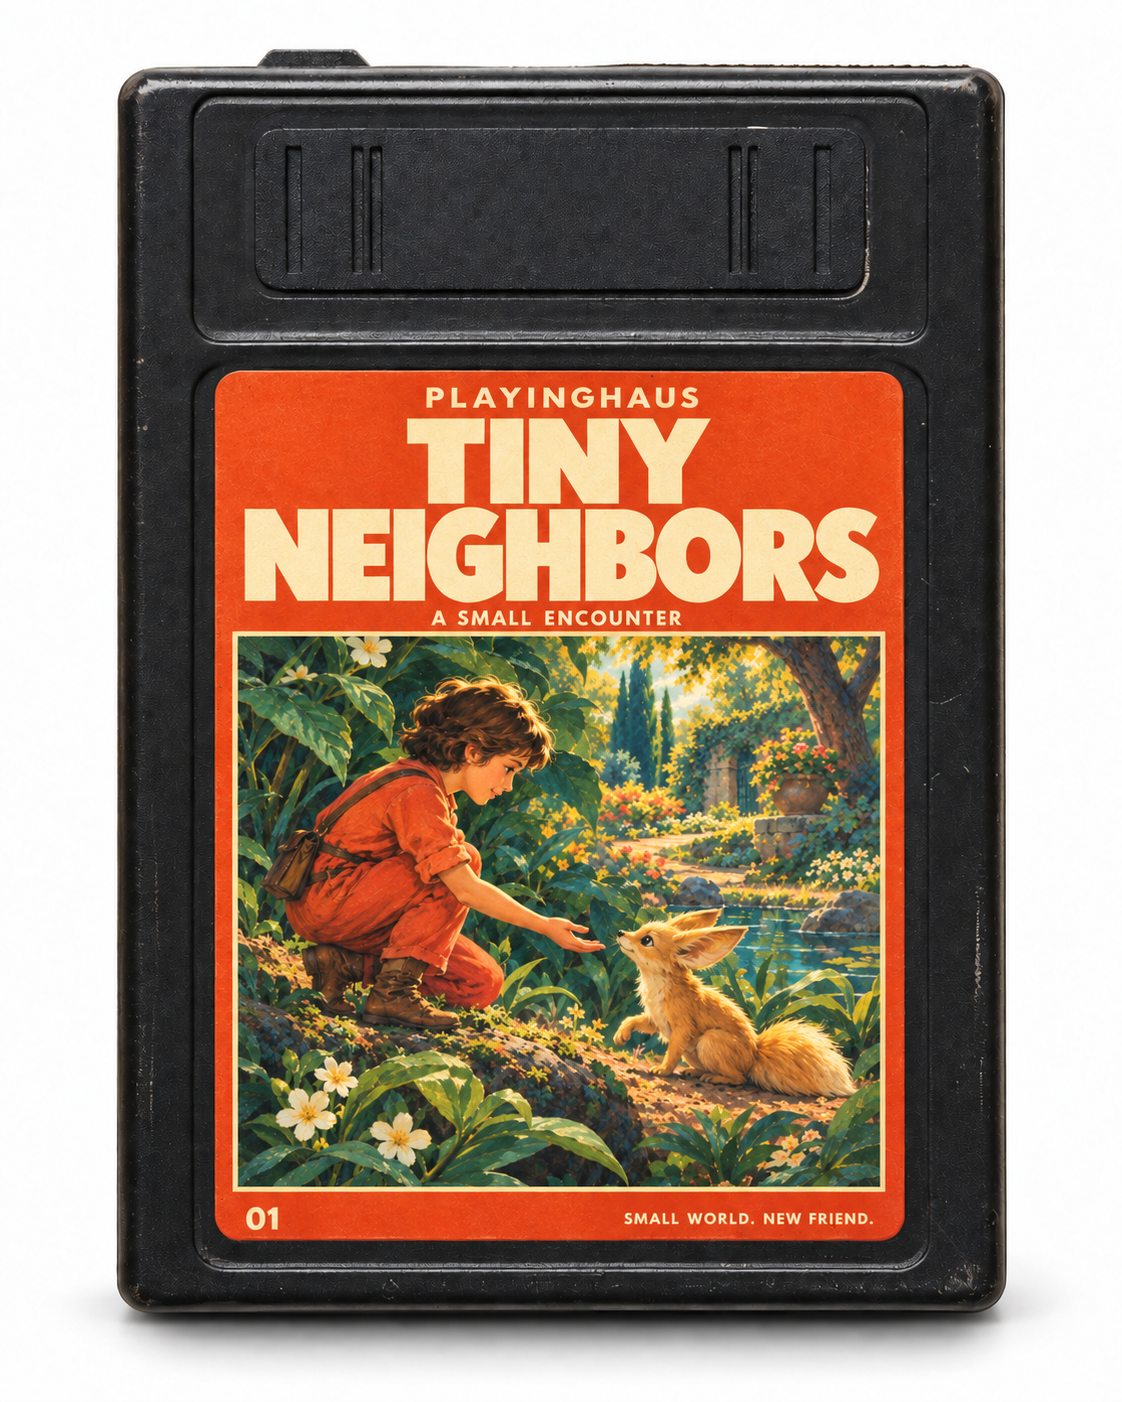
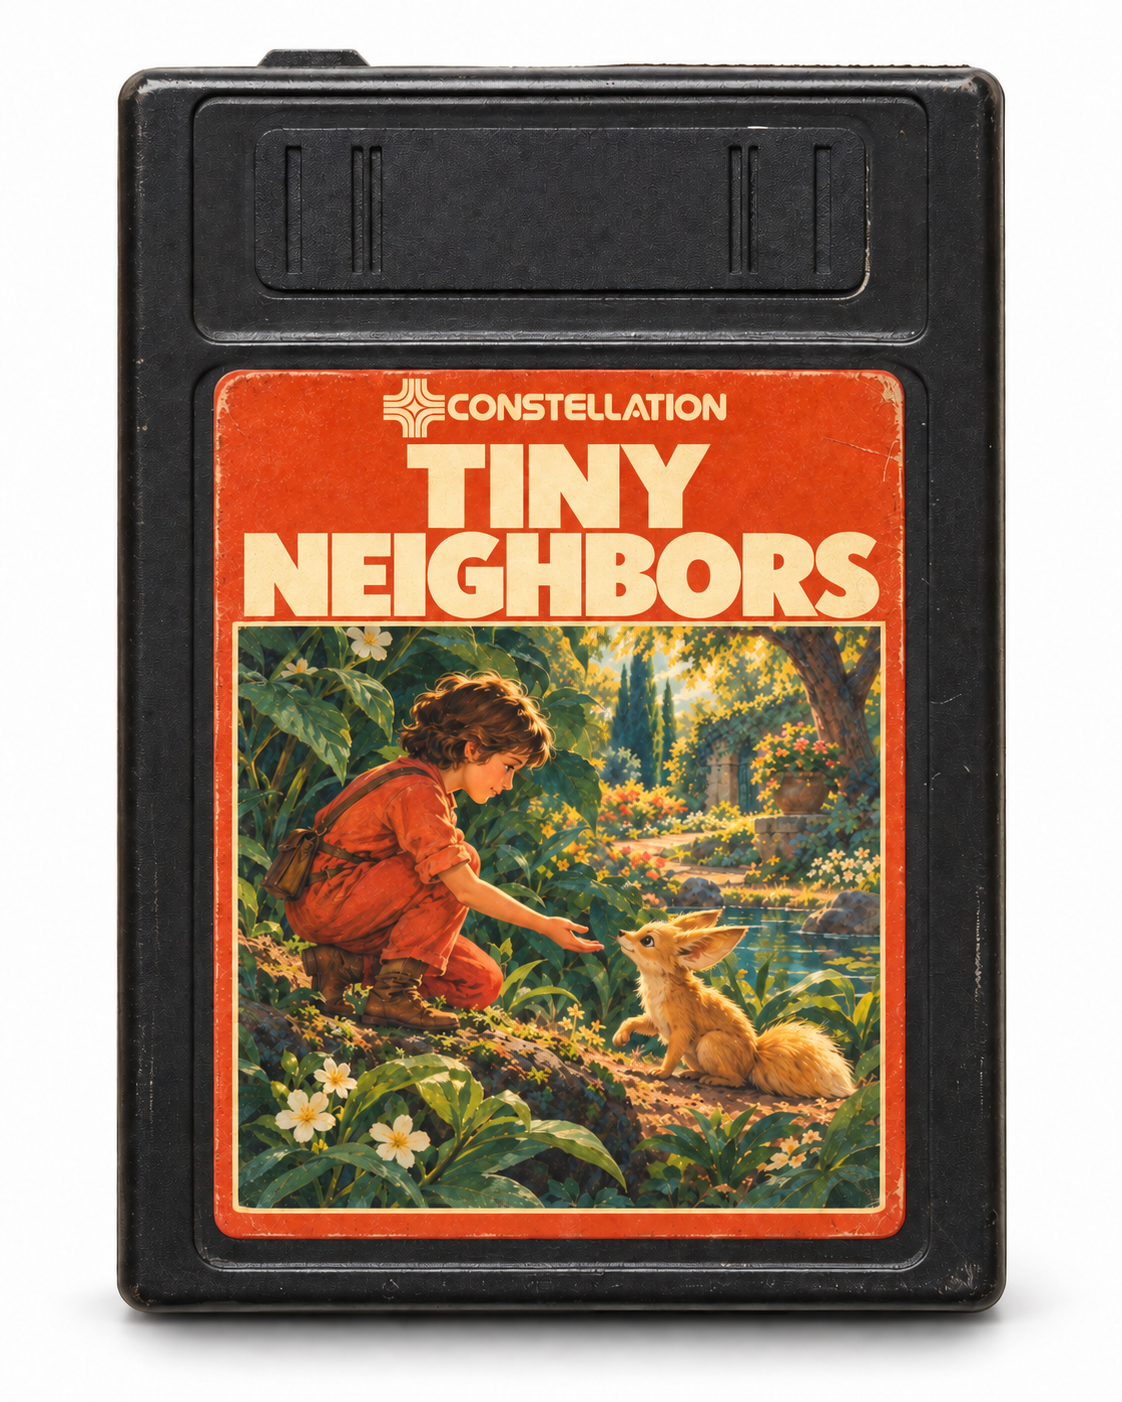
Center playable cartridge and use cream Constellation label branding

Changed region(s): [[0.1872, 0.2454, 0.8111, 0.8894]]

diff --git a/web/home.css b/web/home.css
@@ -16,14 +16,10 @@ a:focus-visible { outline: 3px solid #315fa8; outline-offset: 7px; }
 .masthead { display: flex; justify-content: center; margin-bottom: 34px; }
 .brand { display: block; width: min(350px, 100%); }
 .brand img { display: block; width: 100%; height: auto; }
-.featured { display: grid; grid-template-columns: minmax(0, 440px) minmax(0, 340px); gap: clamp(40px, 7vw, 110px); align-items: center; justify-content: center; }
-.cartridge-link { display: block; width: 100%; border-radius: 4px; }
+.game { display: flex; justify-content: center; }
+.sr-only { position: absolute; width: 1px; height: 1px; padding: 0; margin: -1px; overflow: hidden; clip-path: inset(50%); white-space: nowrap; border: 0; }
+.cartridge-link { display: block; width: min(440px, 100%); border-radius: 4px; }
 .cartridge { display: block; width: 100%; height: auto; transform: scale(1); transition: transform 220ms ease; }
-.game-copy { min-width: 0; }
-h1 { font-size: clamp(26px, 3vw, 36px); font-weight: 600; line-height: 1.15; letter-spacing: -1px; margin: 0 0 20px; }
-.game-copy p { color: #626262; margin: 0 0 28px; max-width: 32ch; }
-.start { display: inline-flex; align-items: center; justify-content: center; gap: 28px; min-height: 48px; padding: 11px 20px; border: 1px solid #262626; border-radius: 4px; text-decoration: none; background: #262626; color: #fff; font-size: 14px; font-weight: 600; transition: background 150ms ease; }
-.start:hover { background: #454545; }
 @media (hover: hover) and (pointer: fine) {
   .cartridge-link:hover .cartridge { transform: scale(1.035); }
 }
@@ -32,16 +28,9 @@ h1 { font-size: clamp(26px, 3vw, 36px); font-weight: 600; line-height: 1.15; let
   .page { padding: 22px 24px 48px; }
   .masthead { margin-bottom: 20px; }
   .brand { width: 250px; }
-  .featured { grid-template-columns: minmax(0, 340px); gap: 28px; }
-  .cartridge-link { width: min(260px, 100%); justify-self: center; }
-  .game-copy { width: 100%; }
-  h1 { font-size: 28px; margin-bottom: 14px; }
-  .game-copy p { margin-bottom: 22px; }
+  .cartridge-link { width: min(300px, 100%); }
 }
 @media (prefers-reduced-motion: reduce) {
-  .cartridge, .start { transition: none; }
+  .cartridge { transition: none; }
   .cartridge-link:hover .cartridge, .cartridge-link:focus-visible .cartridge { transform: none; }
-}
-@media (forced-colors: active) {
-  .start { border: 1px solid ButtonText; }
 }

diff --git a/web/index.html b/web/index.html
@@ -16,17 +16,11 @@
         <img src="playinghaus-chrome.png" width="1942" height="809" alt="Playinghaus">
       </a>
     </header>
-    <main id="game">
-      <article class="featured" aria-labelledby="game-title">
-        <a class="cartridge-link" href="tiny-neighbors/" aria-label="Play Tiny Neighbors">
-          <img class="cartridge" src="tiny-neighbors-cartridge.png" width="1122" height="1402" fetchpriority="high" alt="Tiny Neighbors cartridge with the painted garden cover.">
-        </a>
-        <div class="game-copy">
-          <h1 id="game-title">Tiny Neighbors</h1>
-          <p>A small prototype. Walk around a garden and greet a creature. That’s it for now.</p>
-          <a class="start" href="tiny-neighbors/">Start game <span aria-hidden="true">↗</span></a>
-        </div>
-      </article>
+    <main id="game" class="game">
+      <h1 class="sr-only">Tiny Neighbors</h1>
+      <a class="cartridge-link" href="tiny-neighbors/" aria-label="Play Tiny Neighbors">
+        <img class="cartridge" src="tiny-neighbors-cartridge.png" width="1122" height="1402" fetchpriority="high" alt="Tiny Neighbors cartridge with a cream Constellation logo and painted garden cover.">
+      </a>
     </main>
   </div>
 </body>

diff --git a/docs/minimal-playinghaus-assets.md b/docs/minimal-playinghaus-assets.md
@@ -1,5 +1,13 @@
 # Minimal Playinghaus assets
 
+## Final cartridge branding revision
+
+The first cartridge composition is used, with the supplied Constellation logo in cream replacing Playinghaus on its label. No label subtitle or footer. The final homepage displays only the chrome masthead and centered clickable cartridge; description and separate button were removed at the user's request.
+
+Precise image edit. Image 1 is the approved FIRST Tiny Neighbors cartridge and must be preserved. Image 2 is the supplied Constellation logo artwork.
+Change ONLY the small "PLAYINGHAUS" branding at the top of the orange paper label: remove that word and replace it with the COMPLETE logo from image 2, including the four-direction curved parallel-stripe star emblem on the left and the custom "CONSTELLATION" wordmark to its right. Recolor ALL visible ink in the supplied logo to the exact same pale warm cream as the large TINY NEIGHBORS title in image 1. No blue, no rainbow colors, no black background rectangle. Preserve the logo's distinctive letter shapes and stripe/star geometry; scale it proportionally to fit neatly centered above TINY, within the same small brand-line area, with a little breathing space. It should look like a one-color cream printed publisher logo on the orange label.
+Everything else in image 1 must remain unchanged: large title TINY NEIGHBORS, original garden illustration, placement and proportions, original black cartridge shell and top ridges, white background, lighting, shadow and image framing. Do not add subtitle, tagline, catalog number, footer copy or any additional text. Only the Constellation logo and the large title appear on the label. No added decoration. Output same 1122 x 1402 portrait framing.
+
 Generated/edited with the built-in image-generation tool. User approved the cartridge before implementation. Previous cover and logo originals are preserved.
 
 - [Cartridge](../web/tiny-neighbors-cartridge.png)
@@ -23,4 +31,3 @@ Use case: background-extraction. Edit the attached approved Playinghaus chrome l
 Preserve exactly the existing word "playinghaus", the custom connected script letter shapes, proportions, baseline, underline swash, mirror-polished silver finish, pale blue upper reflections, warm amber lower reflections and three restrained highlight glints. Do not redesign the lettering or add anything.
 Remove all black backdrop and warm halo, including dark background visible inside letter counters and around the underline. Replace with uniform pure white #ffffff, no off-white, no vignette, no texture. Keep dark reflection bands INSIDE the chrome strokes; these are part of the metallic finish, not backdrop. Clean anti-aliased edge with no black fringe. Keep thin dark silver contours for readability on white.
 Output a tightly framed wide horizontal image, approximately 1536 x 640, the complete logo filling about 90% of canvas width and 80% height, modest equal outer white margin, no clipping of descenders or swash. This is the SAME approved logo on white, not a new variation.
-
